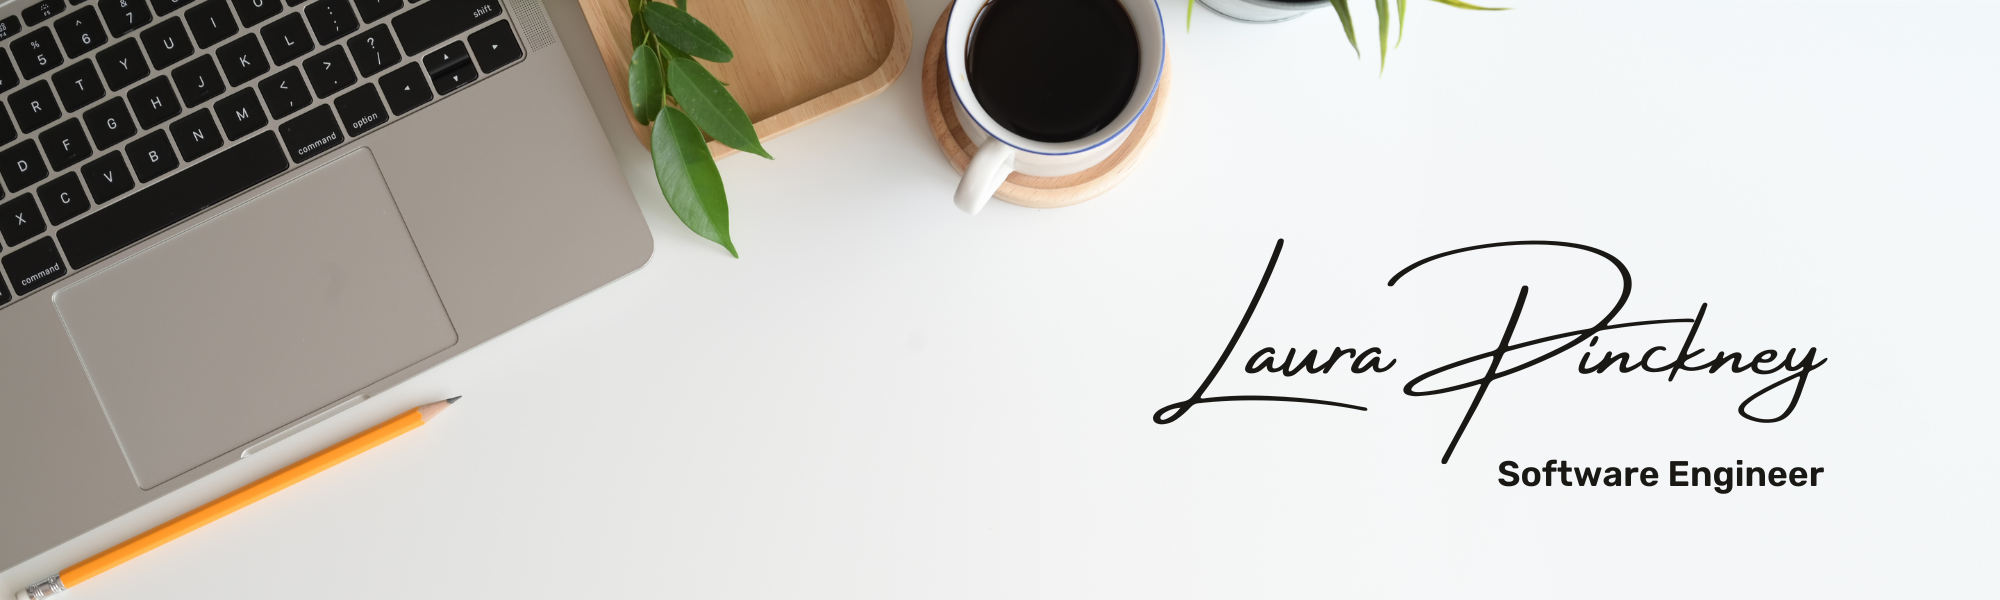
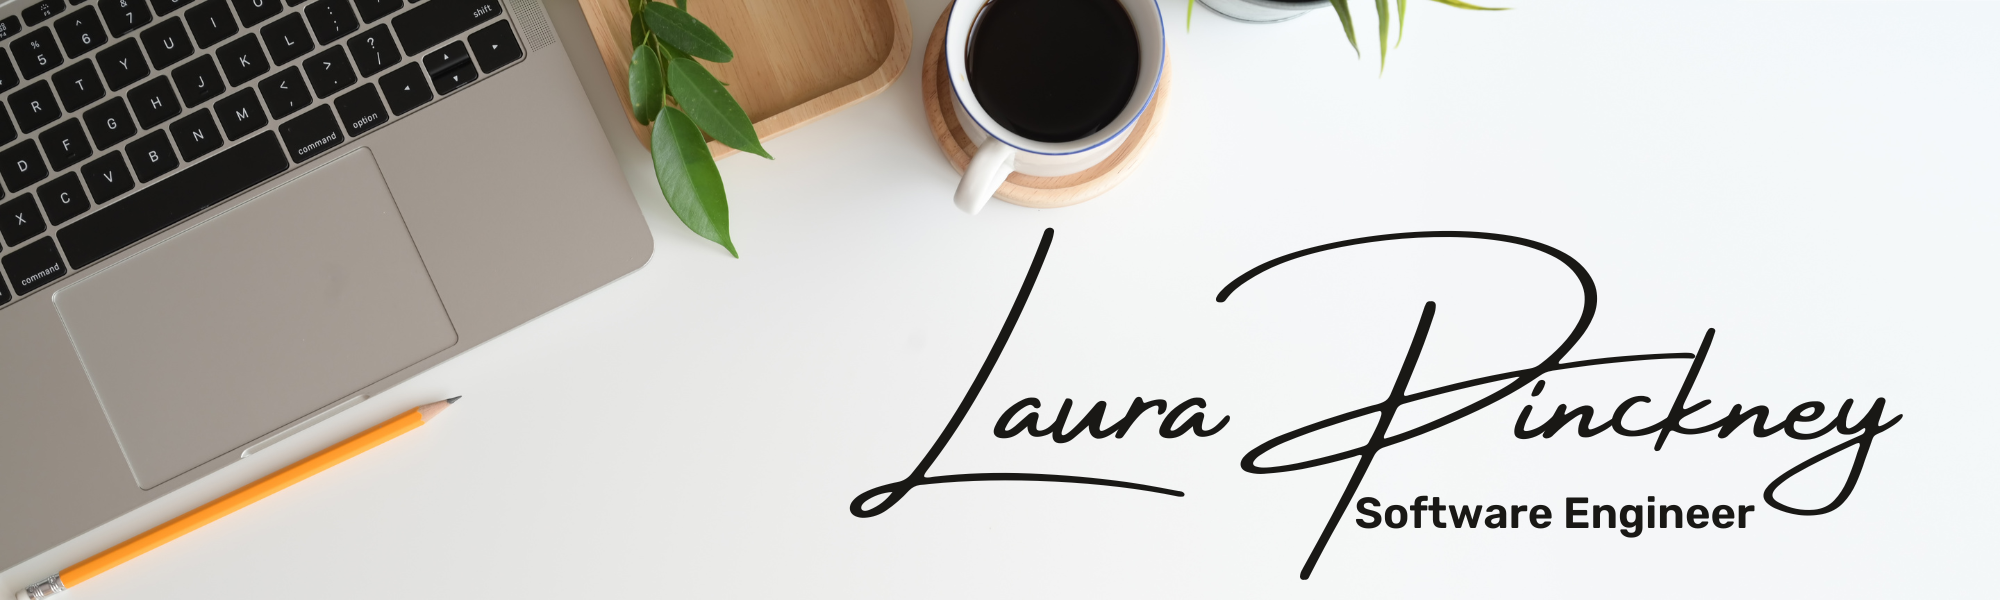
updated hero image with larger text for readability

Changed region(s): [[0.403, 0.36, 0.961, 0.96], [0.496, 0.39, 0.527, 0.6], [0.589, 0.42, 0.651, 0.54]]

diff --git a/src/components/contact/Contact.module.scss b/src/components/contact/Contact.module.scss
@@ -19,6 +19,10 @@
   justify-content: space-evenly;
   padding-bottom: 1em;
 
+  @include largeMobile {
+    padding: 0 8em 1em 8em;
+  }
+
   @include desktop {
     padding: 0 25em 1em 25em;
   }
